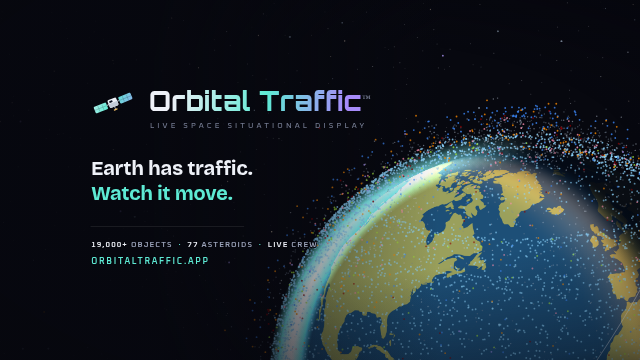
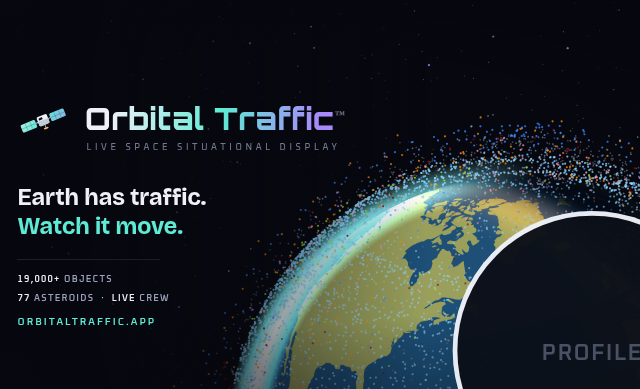
fix: lay the cover out against Facebook's real mobile geometry
A screenshot of the actual page showed the stat line cut mid-word at
"77 ASTEROI". The layout had been built from Facebook's published cover
sizes, and two of those are wrong in ways that cut the artwork:

  - the phone does not show a 640x360 centre crop (the middle 1109px).
    Measured, it shows about 948px, x 398-1346, and hides the bottom
    ~50px behind the page card.
  - the profile photo is not bottom-left on mobile. It is CENTRED, and
    covers x 674-1080 for everything below y = 316 — a region nothing on
    desktop hints at, since there the photo sits bottom-left instead.

So the usable column below y = 316 is ~235px wide, not the full width.
The stat line was 385px and ran to x = 809, straight under the photo.
It is now two stacked rows (138px and 229px) with the URL beneath, all
of which clear both profile-photo positions and the crop.

The guide overlay is rebuilt from the measured figures and now draws
both profile-photo positions, the real crop, and the x = 660 limit;
preview-mobile.png renders the profile photo where it actually lands,
so the preview shows what a visitor sees rather than what was uploaded.
The wrong numbers are called out where they were believed, so the same
mistake is not made from the published sizes again.

Claude-Session: https://claude.ai/code/session_01EFr32ekq6uSYHJpBYuUmBy

diff --git a/design/social/README.md b/design/social/README.md
@@ -6,7 +6,7 @@ generator that produces them.
 ```
 cover-facebook.png       1640 × 624 — the file to upload
 preview-desktop.png      820 × 312  — how desktop renders it
-preview-mobile.png       640 × 360  — how a phone renders it
+preview-mobile.png       640 × 389  — how a phone renders it, profile photo included
 preview-safe-areas.png   crop + profile-photo guides, for checking placement
 ```
 
@@ -24,26 +24,40 @@ is the app icon at 512 × 512 and already reads correctly in a circular crop.
 
 ## Cover geometry
 
-Facebook shows one uploaded image at two different aspect ratios, and crops
-rather than letterboxes:
+**Do not trust Facebook's published cover sizes.** They say the phone shows a
+640 × 360 centre crop, which would be the middle 1109px of this canvas, and
+they say nothing about the profile photo moving. Both are wrong in ways that
+cut the artwork. The figures below are measured from a screenshot of the real
+page and are what the layout is built against; re-measure the same way if
+Facebook changes the layout again.
 
-| Surface | Displayed at | Which part of the upload |
+| Surface | Shows | Profile photo sits |
 |---|---|---|
-| Upload | 1640 × 624 | the whole file (2× of the desktop size, for retina) |
-| Desktop | 820 × 312 | all of it |
-| Mobile | 640 × 360 | the **middle 1109 × 624** — the sides are cut off |
+| Upload | the whole 1640 × 624 file | — |
+| Desktop | all of it, at 820 × 312 | **bottom-left**, over roughly x < 400, y > 344 |
+| Phone | **x 398–1346, y 0–576** (≈948 wide, bottom ~50px hidden) | **centred**, over x 674–1080, everything below y = 316 |
 
-Two constraints follow, and the layout in `tools/build-social-cover.mjs` respects both:
+Three constraints follow, and the layout respects all three:
 
-1. **Everything that must be read lives between x = 266 and x = 1375**, the
-   middle 1109px that survives the mobile crop. Only the starfield and the
-   globe are allowed to bleed past that.
-2. **The bottom-left corner stays empty.** On desktop the page's profile
-   picture sits over roughly the bottom-left 420 × 200 of the cover. The copy
-   block starts at x = 424 for that reason — it used to start at 336, where
-   the profile photo clipped the URL line.
+1. **Readable content stays between x ≈ 400 and x ≈ 1346** — the band the phone
+   keeps. Only the starfield and the globe bleed past it.
+2. **The bottom-left corner stays empty** for the desktop profile photo. The
+   copy block starts at x = 424 for that reason.
+3. **Anything below y = 316 must end before x ≈ 660**, clear of the *centred*
+   phone profile photo. This is the constraint that is easy to miss, because
+   nothing on desktop hints at it. The stat rows are stacked rather than one
+   line precisely because of it: the single line was 385px wide, ran to x = 809,
+   and the phone cut it mid-word at "77 ASTEROI".
 
-`preview-safe-areas.png` draws both regions over the artwork.
+`preview-safe-areas.png` draws all of it — both profile-photo positions, the
+phone's crop, and the x = 660 limit — over the artwork. `preview-mobile.png`
+now includes the profile photo where it really lands, so the phone preview
+shows what a visitor sees rather than what was uploaded.
+
+Because the phone shows a *narrower* band than the upload, Facebook lets the
+image be dragged horizontally in its cover editor. These figures describe its
+default placement. Dragging shifts the visible band, so leave it where it
+lands.
 
 ## What the picture is made of
 
